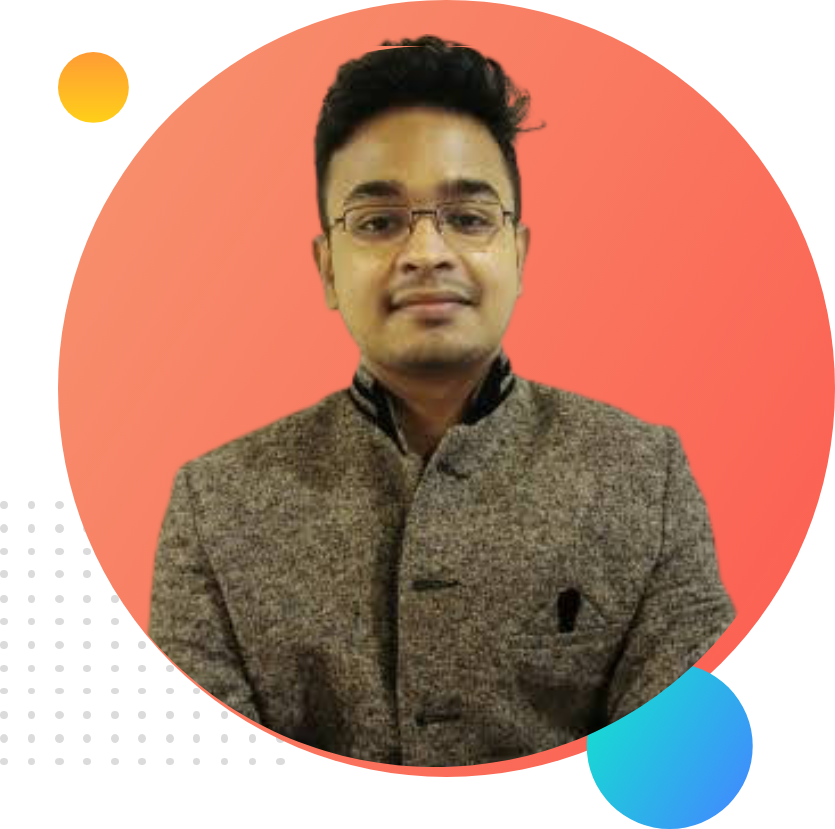
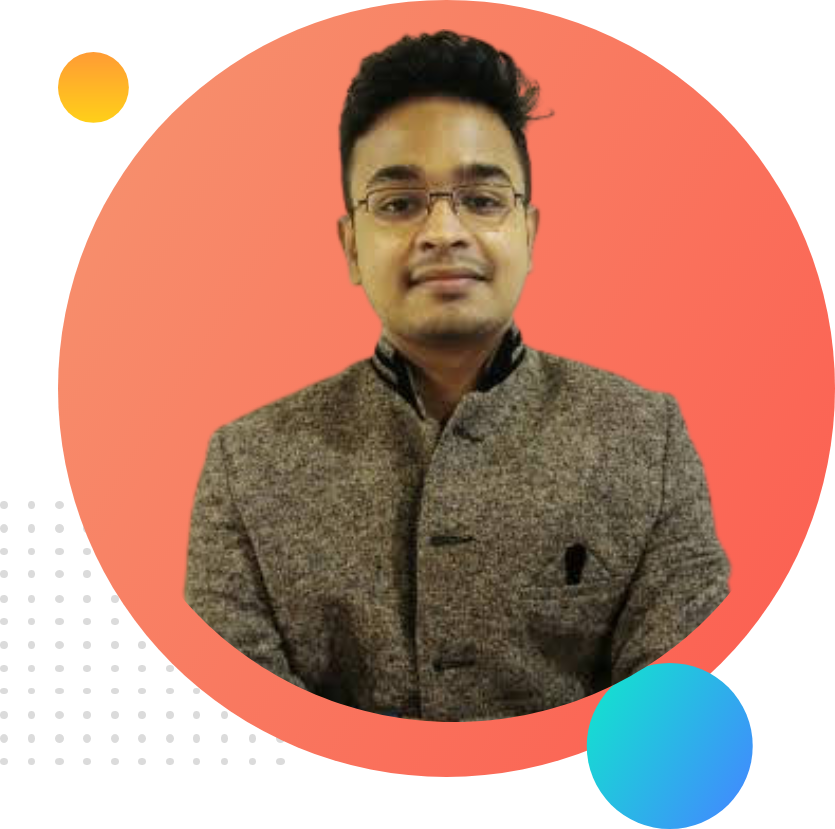
code updated

Changed region(s): [[0.1557, 0.0302, 0.903, 0.9349]]

diff --git a/index.html b/index.html
@@ -11,7 +11,20 @@
     <link rel="stylesheet" href="style.css">
 </head>
 <body>
-    <h1>Welcome To</h1>
-    <h1>Peter Parker World</h1>
+    <section>
+        <div class="half-width">
+            <h1>Welcome To</h1>
+    <h1><span class="orange-color">Peter Parker</span> World</h1>
+    <h3>Build Climber and Train Stopper</h3>
+    <p>You might saw me jumping, climbing buildings, and stopping trains. But nobody pays me a dime for that work. That's why I am learning and mastering web development. I will not stop until I become the Web Development Hero.</p>
+
+    <button class="btn"><a href="http://" target="_blank" rel="noopener noreferrer">Hire Me</a></button>
+
+        </div>
+        <div class="half-width">
+            <img src="images/junayet.png" alt="" srcset="">
+        </div>
+    </section>
+    
 </body>
 </html>

diff --git a/style.css b/style.css
@@ -4,3 +4,29 @@ body{
 h1{
     font-size: 45px;
 }
+.orange-color{
+    color: orange;
+}
+section{
+    display: flex;
+}
+.half-width{
+    width: 50%;
+    padding: 50px;
+}
+.half-width img{
+    width: 80%;
+}
+a{
+    text-decoration: none;
+    color: white;
+}
+.btn{
+    text-decoration: none;
+    padding: 10px 40px;
+    background-image: linear-gradient(salmon,tomato);
+    font-weight: 700;
+    font-size: 17px;
+    border: none;
+    border-radius: 7px;
+}
